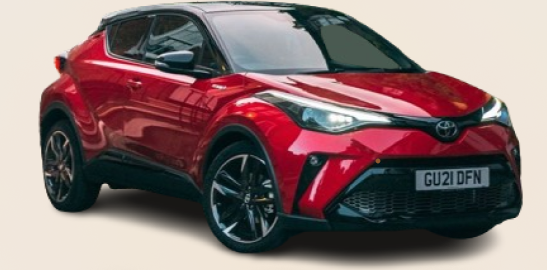
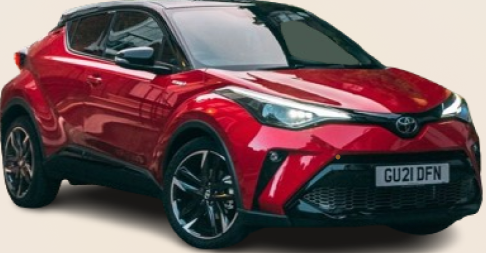
added

diff --git a/src/list/rentals/BookingCards.js b/src/list/rentals/BookingCards.js
@@ -1,7 +1,9 @@
 import carImg from "../../images/car1.png";
 import React from 'react';
-import SpeedIcon from '@mui/icons-material/Speed';
 import { useNavigate } from 'react-router-dom';
+import seatImg from "../../images/seat.png";
+import bag from "../../images/luggage.png";
+import speed from "../../images/speedometer.png";
 function BookingCards() {
     const navigate = useNavigate();
     const navigateToAboutInfo = () => {
@@ -9,15 +11,15 @@ function BookingCards() {
     };
     return(
         <div className="h-full w-full flex space-x-16 my-24 ">
-<div className="ml-24  h-96 w-96 bg-customSkin rounded-lg">
+<div className="ml-24  h-96 w-96 bg-customCream rounded-lg">
     <h1 className="text-xl font-bold text-center pt-3">Toyota Matrix</h1>
-<img src = {carImg} alt='carimage' className="h-40 w-80 mx-7 my-3"></img>
+<img src = {carImg} alt='carimage' className="h-36 w-76 ml-14 my-5"></img>
 <div className="flex flex-row mx-14 my-4 space-x-10">
-    <div className="h-16 w-16 rounded-full border-2 border-white bg-gray-200"><SpeedIcon className="mt-5 ml-4"></SpeedIcon>
+    <div className="h-16 w-16 rounded-full border-2 border-white bg-gray-200"><img src={speed} alt="seatimag" className="h-8 ml-4 mt-3 w-8" />
     <p className="mt-5 text-sm w-20">120 <span className="text-gray-500">km/hr</span></p></div>
-    <div className="h-16 w-16 rounded-full border-2 border-white bg-gray-200"><SpeedIcon className="mt-5 ml-4"></SpeedIcon>
+    <div className="h-16 w-16 rounded-full border-2 border-white bg-gray-200"><img src={seatImg} alt="seatimag" className="h-8 ml-4 mt-3 w-8"></img> 
     <p className="mt-5 text-sm w-20">8<span className="text-gray-500"> seater</span></p> </div>
-    <div className="h-16 w-16 rounded-full border-2 border-white bg-gray-200"> <SpeedIcon className="mt-5 ml-4"></SpeedIcon>
+    <div className="h-16 w-16 rounded-full border-2 border-white bg-gray-200"> <img src={bag} alt="seatimag" className="h-8 ml-4 mt-3 w-8"></img>
     <p className="mt-5 text-sm w-20">10<span className="text-gray-500"> laguage</span></p>
     </div>
 </div>
@@ -25,15 +27,15 @@ function BookingCards() {
         <p className="text-xl font-medium pt-2 pl-5">Rs.2000<span className="text-base text-gray-500">/day</span> <button className="h-8 w-36 ml-5 rounded-xl text-white text-xl font-thin bg-customPeach" onClick={navigateToAboutInfo}>BOOK NOW</button></p>
         </div>
 </div>
-<div className=" h-96 w-96 bg-customSkin rounded-lg">
+<div className="ml-24  h-96 w-96 bg-customCream rounded-lg">
     <h1 className="text-xl font-bold text-center pt-3">Toyota Matrix</h1>
-<img src = {carImg} alt='carimage' className="h-40 w-80 mx-7 my-3"></img>
+<img src = {carImg} alt='carimage' className="h-36 w-76 ml-14 my-5"></img>
 <div className="flex flex-row mx-14 my-4 space-x-10">
-    <div className="h-16 w-16 rounded-full border-2 border-white bg-gray-200"><SpeedIcon className="mt-5 ml-4"></SpeedIcon>
+    <div className="h-16 w-16 rounded-full border-2 border-white bg-gray-200"><img src={speed} alt="seatimag" className="h-8 ml-4 mt-3 w-8" />
     <p className="mt-5 text-sm w-20">120 <span className="text-gray-500">km/hr</span></p></div>
-    <div className="h-16 w-16 rounded-full border-2 border-white bg-gray-200"><SpeedIcon className="mt-5 ml-4"></SpeedIcon>
+    <div className="h-16 w-16 rounded-full border-2 border-white bg-gray-200"><img src={seatImg} alt="seatimag" className="h-8 ml-4 mt-3 w-8"></img> 
     <p className="mt-5 text-sm w-20">8<span className="text-gray-500"> seater</span></p> </div>
-    <div className="h-16 w-16 rounded-full border-2 border-white bg-gray-200"> <SpeedIcon className="mt-5 ml-4"></SpeedIcon>
+    <div className="h-16 w-16 rounded-full border-2 border-white bg-gray-200"> <img src={bag} alt="seatimag" className="h-8 ml-4 mt-3 w-8"></img>
     <p className="mt-5 text-sm w-20">10<span className="text-gray-500"> laguage</span></p>
     </div>
 </div>
@@ -41,15 +43,15 @@ function BookingCards() {
         <p className="text-xl font-medium pt-2 pl-5">Rs.2000<span className="text-base text-gray-500">/day</span> <button className="h-8 w-36 ml-5 rounded-xl text-white text-xl font-thin bg-customPeach" onClick={navigateToAboutInfo}>BOOK NOW</button></p>
         </div>
 </div>
-<div className=" h-96 w-96 bg-customSkin rounded-lg">
+<div className="ml-24  h-96 w-96 bg-customCream rounded-lg">
     <h1 className="text-xl font-bold text-center pt-3">Toyota Matrix</h1>
-<img src = {carImg} alt='carimage' className="h-40 w-80 mx-7 my-3"></img>
+<img src = {carImg} alt='carimage' className="h-36 w-76 ml-14 my-5"></img>
 <div className="flex flex-row mx-14 my-4 space-x-10">
-    <div className="h-16 w-16 rounded-full border-2 border-white bg-gray-200"><SpeedIcon className="mt-5 ml-4"></SpeedIcon>
+    <div className="h-16 w-16 rounded-full border-2 border-white bg-gray-200"><img src={speed} alt="seatimag" className="h-8 ml-4 mt-3 w-8" />
     <p className="mt-5 text-sm w-20">120 <span className="text-gray-500">km/hr</span></p></div>
-    <div className="h-16 w-16 rounded-full border-2 border-white bg-gray-200"><SpeedIcon className="mt-5 ml-4"></SpeedIcon>
+    <div className="h-16 w-16 rounded-full border-2 border-white bg-gray-200"><img src={seatImg} alt="seatimag" className="h-8 ml-4 mt-3 w-8"></img> 
     <p className="mt-5 text-sm w-20">8<span className="text-gray-500"> seater</span></p> </div>
-    <div className="h-16 w-16 rounded-full border-2 border-white bg-gray-200"> <SpeedIcon className="mt-5 ml-4"></SpeedIcon>
+    <div className="h-16 w-16 rounded-full border-2 border-white bg-gray-200"> <img src={bag} alt="seatimag" className="h-8 ml-4 mt-3 w-8"></img>
     <p className="mt-5 text-sm w-20">10<span className="text-gray-500"> laguage</span></p>
     </div>
 </div>

diff --git a/src/list/rentals/PickUp.js b/src/list/rentals/PickUp.js
@@ -19,16 +19,16 @@ const PickUp = () => {
     return(
         <>
         <Navbar navigateToAbout={navigateToAbout} navigateToAbout1={navigateToAbout1} navigateToAbout2={navigateToAbout2} navigateToAbout4={navigateToAbout4} ></Navbar>
-        <div>
-          <div>
-<h1>Data Collection</h1>
-<p></p>
+        <div className='mx-28 my-20 min-h-96 w-5/6 rounded-2xl shadow-2xl shadow-slate-500'>
+          <div className='ml-8 min-h-96 w-96 bg-customCream rounded-2xl'>
+<h1 className='text-xl font-medium pl-10 pt-6'>Data Collection</h1>
+<p className='text-gray-500 pl-10 pr-4 pt-3'>Lorem Ipsum is simply dummy text of the printing and typesetting industry. Lorem Ipsum has been the industry's standard dummy.</p>
 <div>
-  <div></div><p>Pick Up Details</p>
-  <div></div>
-  <div></div><p>Driver</p>
-  <div></div>
-  <div></div><p>Confirm</p>
+  <div className='h-10 w-10 mt-5 ml-10 bg-yellow-500 rounded-full'><p></p><p className='pl-20 text-lg '>PickUp Details</p></div>
+  <div className='h-16 w-1 mt-1 ml-14 bg-yellow-500'><p className='pl-16 text-lg pt-20'>Driver</p></div>
+  <div className='h-10 w-10 mt-1 ml-10 pt-1 bg-gray-400 rounded-full'><span className='text-white text-2xl pl-3 font-bold'>2</span></div>
+  <div className='h-16 w-1 ml-14 mt-1 bg-gray-400'><p className='pl-16 pt-20 text-lg'>Confirm</p></div>
+  <div className='h-10 w-10 mt-1 ml-10 pt-1 bg-gray-400 rounded-full'><span className='text-white text-2xl pl-3 font-bold'>3</span></div>
 </div>
           </div>
         </div>

diff --git a/src/list/Mainlogin.js b/src/list/Mainlogin.js
@@ -65,6 +65,7 @@ const Mainlogin=() =>{
                         onClick={navigateToAbout}>
                         LOGIN
                     </button>
+                    <p className='text-gray-500 font-semibold pt-3'>OR Create Account?</p>
                 </div>
                 <div className="text-center">
                     <p className="text-2xl text-gray-400">- OR -</p>

diff --git a/tailwind.config.js b/tailwind.config.js
@@ -13,7 +13,8 @@ module.exports = {
         'fed8bc' : '#FED8BC',
         'ffbe82' : '#FFBE82',
         'ffe485' : '#FFE485',
-        'c1a43e': '#C1A43E'
+        'c1a43e': '#C1A43E',
+        customCream : '#EFEAE6'
       },
       boxShadow: {
         'left-right-bottom': '5px 5px 5px rgba(0, 0, 0, 0.1)',
